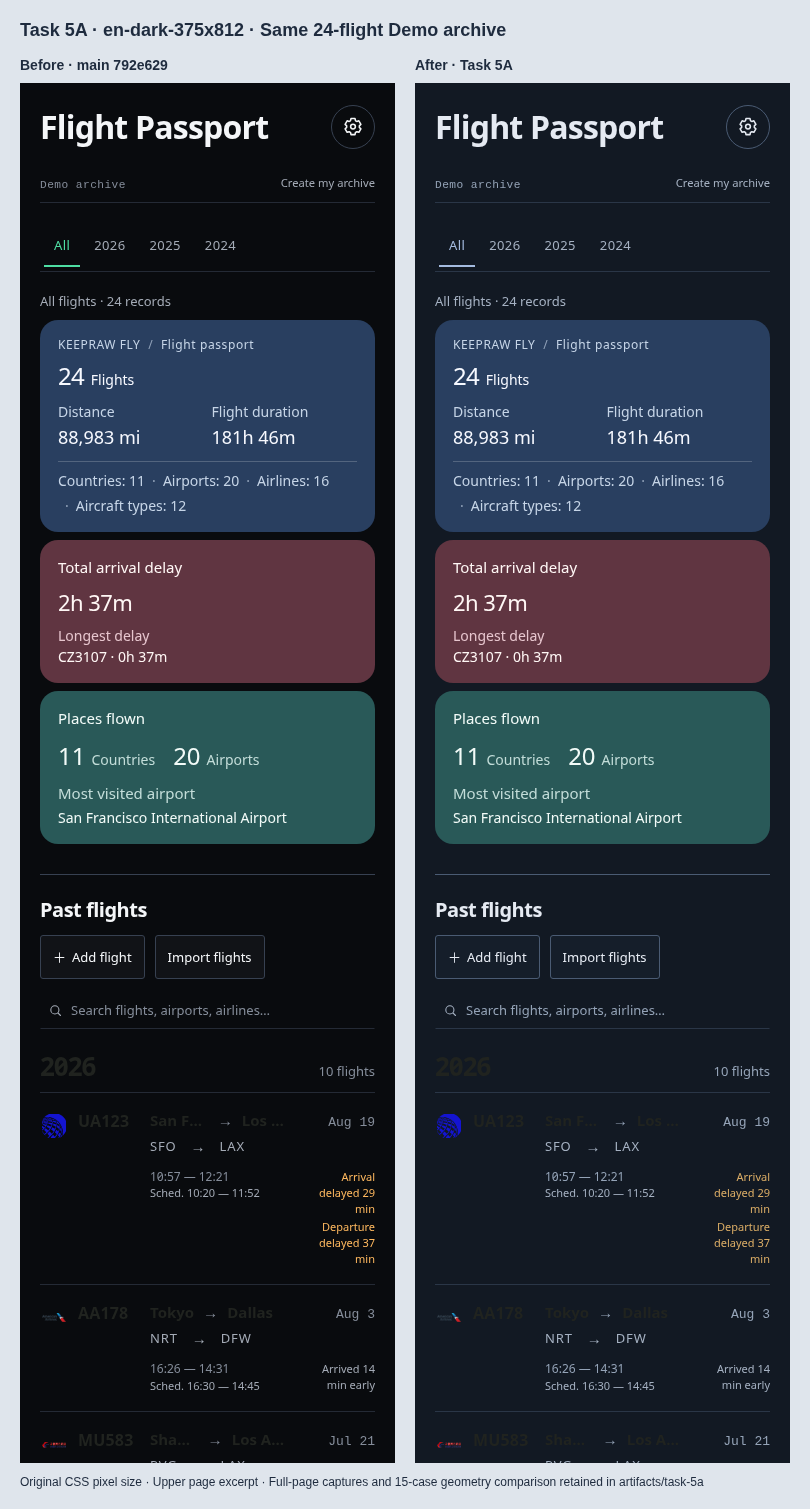
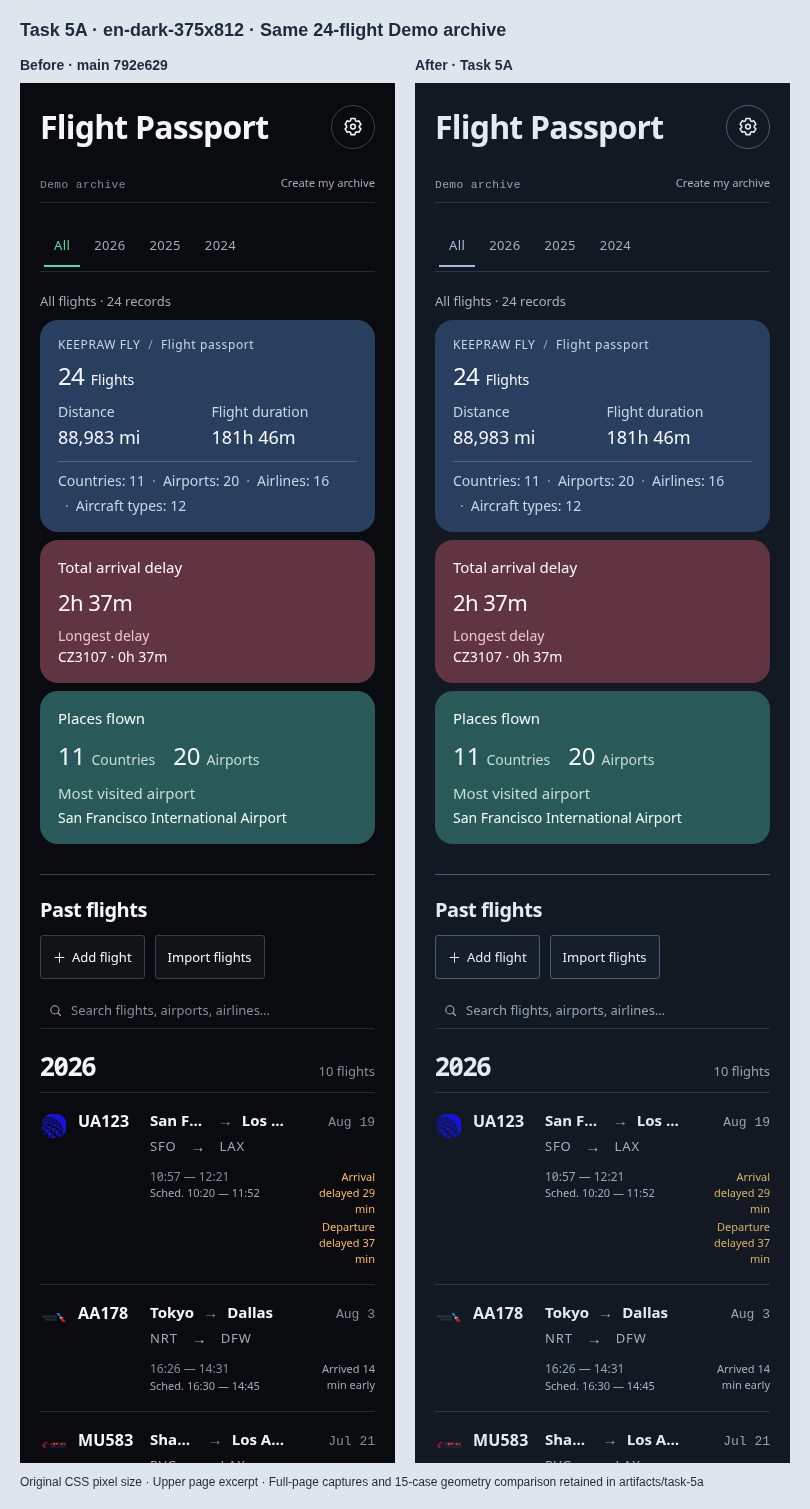
test: verify initial mobile colors after archive readiness

diff --git a/e2e/passport-mobile-palette.pw.ts b/e2e/passport-mobile-palette.pw.ts
@@ -15,6 +15,7 @@ test.describe("Mobile Passport palette", { tag: "@cross-browser" }, () => {
     await page.emulateMedia({ reducedMotion: "reduce", colorScheme: "light" });
     await page.goto("/");
     await page.getByRole("button", { name: "Try demo", exact: true }).click();
+    await expect(page.locator(".flight-row")).toHaveCount(24);
   });
 
   for (const language of ["en", "zh-CN", "zh-TW"]) {
@@ -30,6 +31,7 @@ test.describe("Mobile Passport palette", { tag: "@cross-browser" }, () => {
           loadedGlobeResources.push(request.url());
       });
       await page.reload();
+      await expect(page.locator(".flight-row")).toHaveCount(24);
       for (const viewport of cases) {
         await page.setViewportSize(viewport);
         await page.goto("/#settings");
@@ -47,6 +49,16 @@ test.describe("Mobile Passport palette", { tag: "@cross-browser" }, () => {
           "background-color",
           viewport.theme === "dark" ? "rgb(18, 25, 35)" : "rgb(243, 246, 250)",
         );
+        const primaryText =
+          viewport.theme === "dark" ? "rgb(229, 234, 242)" : "rgb(30, 43, 62)";
+        await expect(page.locator(".flight-row").first()).toHaveCSS(
+          "color",
+          primaryText,
+        );
+        await expect(page.locator(".year-heading h2").first()).toHaveCSS(
+          "color",
+          primaryText,
+        );
         await expect(page.locator(".passport-mobile-summary")).toBeVisible();
         await expect(page.locator(".passport-delay-panel")).toBeVisible();
         await expect(page.locator(".passport-network-panel")).toBeVisible();
@@ -61,6 +73,11 @@ test.describe("Mobile Passport palette", { tag: "@cross-browser" }, () => {
         expect(
           await heading.evaluate((el) => el.scrollWidth <= el.clientWidth),
         ).toBe(true);
+
+        const accessibility = await new AxeBuilder({ page })
+          .withTags(["wcag2a", "wcag2aa", "wcag21aa"])
+          .analyze();
+        expect(accessibility.violations).toEqual([]);
 
         const search = page.locator(".passport-search-field input");
         await search.focus();
@@ -91,11 +108,6 @@ test.describe("Mobile Passport palette", { tag: "@cross-browser" }, () => {
         );
         await page.locator(".detail-header-back").click();
         await expect(page.locator(".passport-mobile-summary")).toBeVisible();
-
-        const accessibility = await new AxeBuilder({ page })
-          .withTags(["wcag2a", "wcag2aa", "wcag21aa"])
-          .analyze();
-        expect(accessibility.violations).toEqual([]);
       }
       expect(loadedGlobeResources).toEqual([]);
     });

diff --git a/docs/reviews/task-5a.md b/docs/reviews/task-5a.md
@@ -11,6 +11,8 @@ Each comparison uses the same 24-flight bundled Demo archive, distance unit and
 appearance. Left is the baseline; right is Task 5A. Images retain the original
 CSS pixel size and show the upper 1,380 pixels of each full-page capture, including
 the panels, search, buttons and first flight rows.
+Captures wait for the selected appearance and flight/year text colors to settle
+before measuring and taking screenshots. Theme transition frames are excluded.
 
 | Language            | Viewport | Appearance | Comparison                                        |
 | ------------------- | -------- | ---------- | ------------------------------------------------- |
@@ -59,7 +61,40 @@ matrix in each language, Axe AA checks, search/clear, real Tab focus and Enter
 navigation, detail return, System/explicit appearance precedence with reload,
 and palette isolation from Settings and Flight Detail.
 
-Final automated results will be recorded here after the runs complete.
+- Frozen dependency installation, all 333 unit tests, documentation consistency,
+  formatting, CSS lint/token checks, workspace type checking and production build
+  passed.
+- Chromium covered all 140 current journeys across the full and targeted runs.
+  The initial full run passed 138/139; the existing flight-row navigation journey
+  reached its 30-second deadline under concurrent load. With no concurrent build
+  or browser work, the unchanged journey passed in 24.4 seconds (baseline:
+  24.8 seconds). All six new mobile journeys passed without timeout changes.
+- Firefox: **44/44 passed**. WebKit: **44/44 passed**. Chromium and WebKit exercised
+  the desktop WebGL path. Firefox reported unavailable WebGL in this cloud image
+  and exercised the existing interactive SVG fallback.
+- The subsequent initial-entry checks passed all six mobile journeys in Chromium
+  and Firefox. One WebKit fixture navigated before reload restored the Demo archive.
+  Waiting for its 24 flight rows fixed the startup race; the WebKit rerun passed
+  **6/6** with the same assertions and timeout budgets.
+- Axe reported no WCAG A/AA violations in the new mobile journeys. Cancelled
+  text on the focused Light row exceeds 4.5:1 contrast; keyboard focus uses the
+  visible purple ring in both appearances.
+- Chromium and WebKit also passed a mobile touch-context check: tapping Demo,
+  searching, opening the first and last flights, returning from Detail and
+  opening Settings. These are browser checks, not physical iOS/Android testing.
+
+Local WebKit uses verified official Debian libraries extracted into the workspace.
+Its `ldconfig` cache probe cannot see the workspace GLES library, so only that
+preflight probe is bypassed; actual library loading, browser startup and all
+44 test assertions executed successfully.
+
+GitHub CI at the implementation commit passed Chromium verification and Firefox.
+Its WebKit job failed in the initial run and one retry. The cloud network denied
+the redirected diagnostic download; the required log domains are saved in the
+environment draft but need to be applied in environment settings before diagnosis
+can continue. The remote failure remains unexplained and is not treated as a pass.
+See the [failed job](https://github.com/keepraw/Keepraw-Fly/actions/runs/38072562008/job/114275649907)
+and the PR's current checks for the latest remote result.
 
 ## Owner review
 
